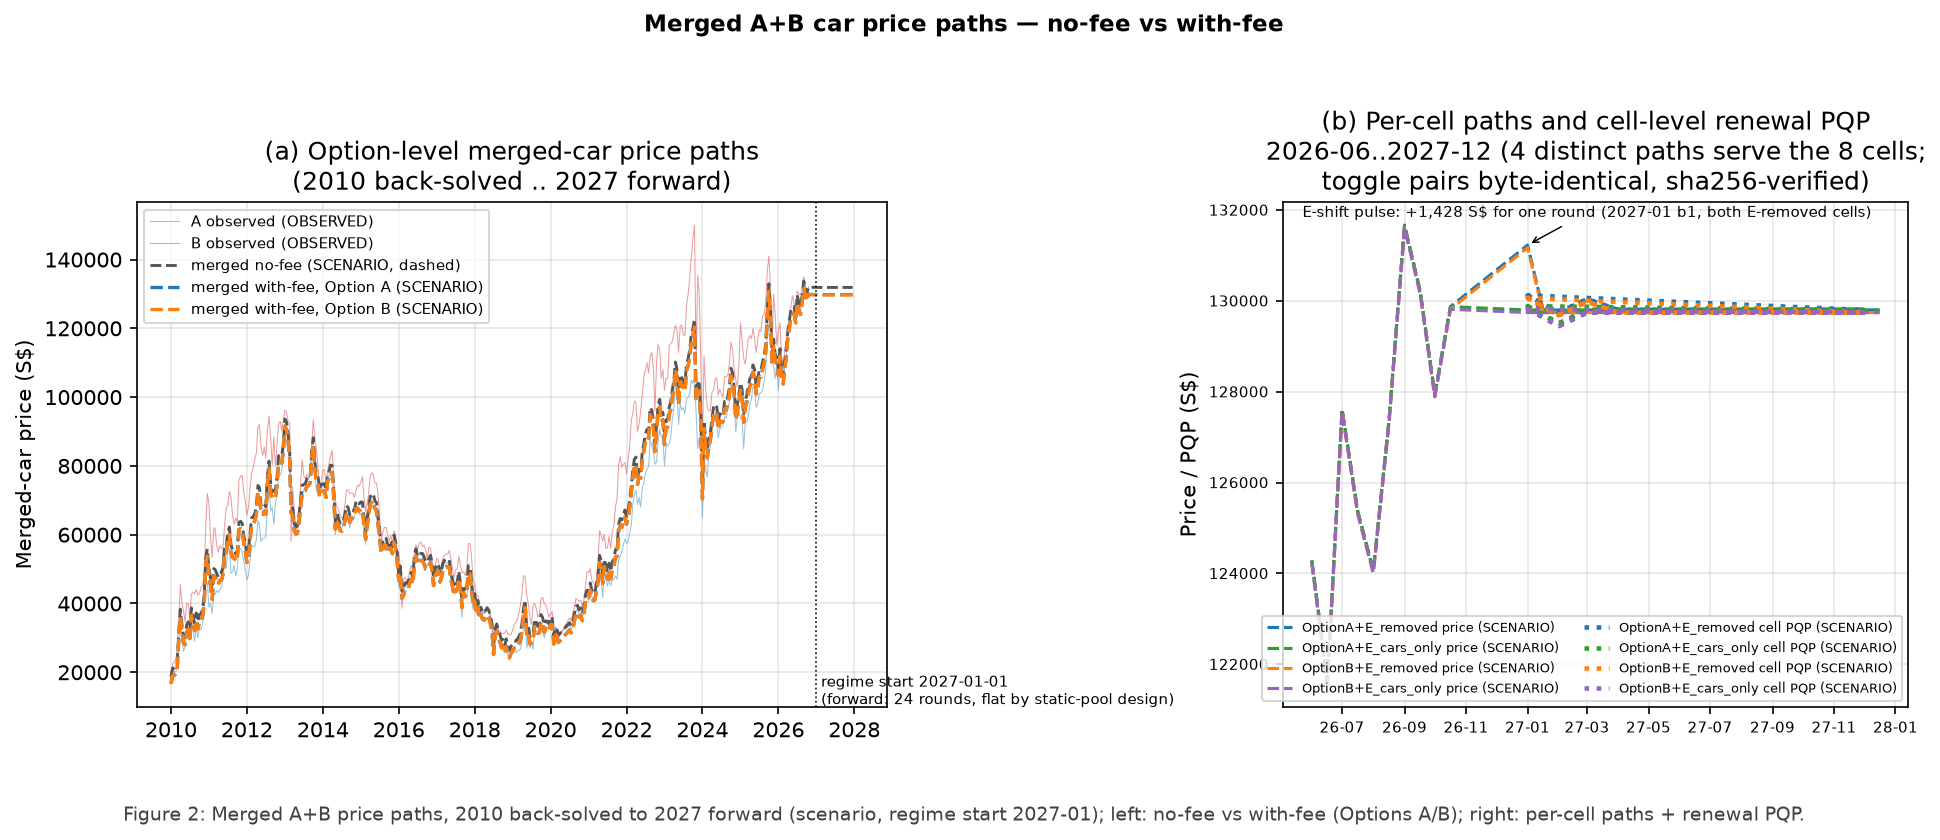
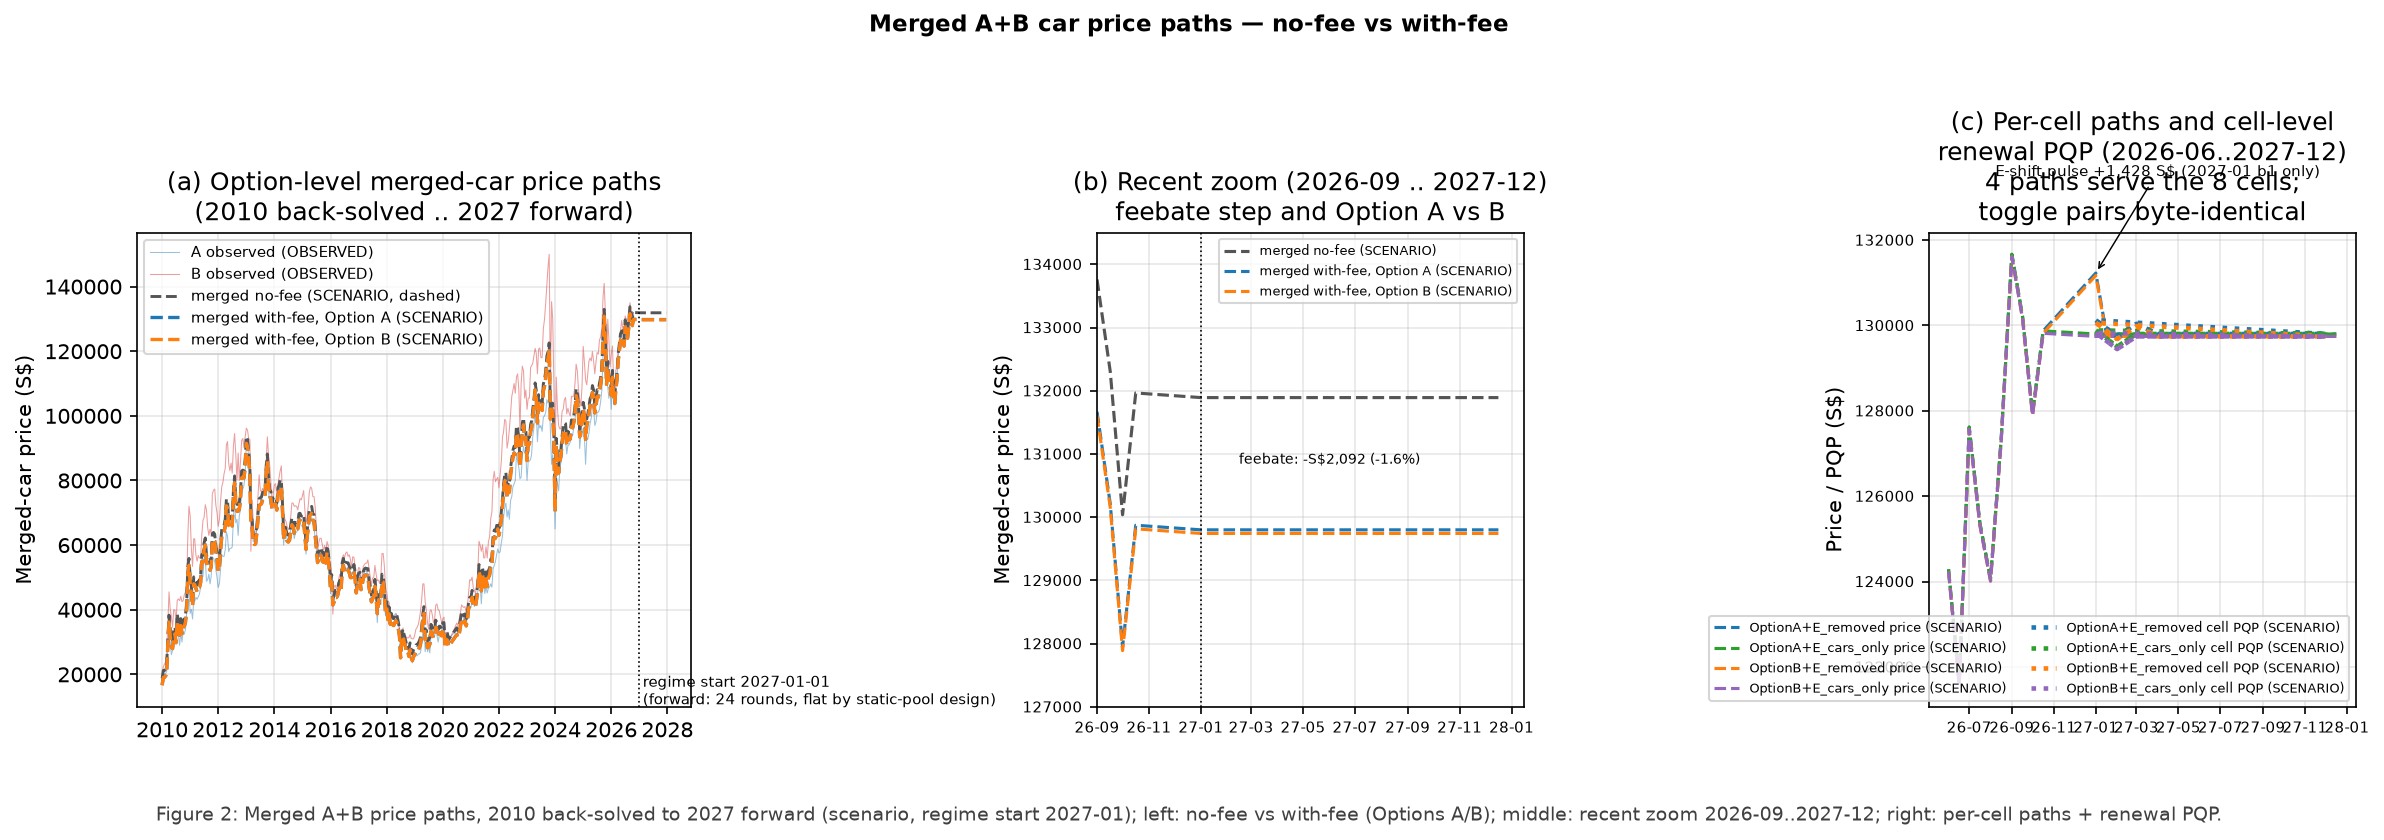
Figure 2: make the with-fee Option A (blue) line visible — it was drawn but hidden, sub-pixel under the Option B orange line (paths within S$60, orange drawn last). Added a middle zoom panel (2026-09..2027-12) separating the three merged paths and showing the -1.6% feebate step; caption explains the

diff --git a/src/make_charts.py b/src/make_charts.py
@@ -121,6 +121,15 @@ def mkfig(name, caption, fig, title=None):
     for ext, txt in title_exts:
         if ext.x0 < -2 or ext.x1 > W + 2:
             problems.append(f"panel title exceeds canvas width: {txt!r}")
+    # any other text/annotation extending past the canvas: bbox_inches='tight'
+    # would silently stretch the saved image to fit it
+    for ax in fig.axes:
+        for child in ax.get_children():
+            if not isinstance(child, plt.Text) or not child.get_text():
+                continue
+            e = child.get_window_extent(renderer)
+            if e.width and (e.x0 < -2 or e.x1 > W + 2 or e.y0 < -2 or e.y1 > H + 2):
+                problems.append(f"text exceeds canvas: {child.get_text()[:30]!r}")
     if problems:
         print(f"WARNING {name}: layout problems: {problems}")
     fig.savefig(path, dpi=150, bbox_inches="tight")
@@ -187,7 +196,7 @@ def fig2():
     ixp, rowsp = read("data/processed/coe_panel_perbidding.csv")
     A = [(d(r[ixp["month"]], r[ixp["bid_no"]]), f(r[ixp["premium"]])) for r in rowsp if r[ixp["category"]] == "A"]
     B = [(d(r[ixp["month"]], r[ixp["bid_no"]]), f(r[ixp["premium"]])) for r in rowsp if r[ixp["category"]] == "B"]
-    fig, (ax1, ax2) = plt.subplots(1, 2, figsize=(13, 5.5), gridspec_kw={"width_ratios": [1.2, 1]})
+    fig, (ax1, axb, ax2) = plt.subplots(1, 3, figsize=(16, 5.5), gridspec_kw={"width_ratios": [1.3, 1, 1]})
     ax1.plot([t for t, _ in A], [v for _, v in A], "-", color="#1f77b4", lw=0.5, alpha=0.45, label="A observed (OBSERVED)")
     ax1.plot([t for t, _ in B], [v for _, v in B], "-", color="#d62728", lw=0.5, alpha=0.45, label="B observed (OBSERVED)")
     ax1.plot([t for t, _ in nofee], [v for _, v in nofee], "--", color="#555555", lw=1.4, label="merged no-fee (SCENARIO, dashed)")
@@ -200,6 +209,30 @@ def fig2():
     ax1.xaxis.set_major_formatter(mdates.DateFormatter("%Y"))
     ax1.grid(alpha=0.3)
     ax1.legend(fontsize=7, loc="upper left")
+
+    # middle: recent zoom — at full-panel scale the with-fee Option A (blue)
+    # and Option B (orange) paths are within S$60 of each other (sub-pixel),
+    # so the blue line is hidden under the orange one; the zoom separates them
+    # and shows the ~S$2,100 (-1.6%) feebate step.
+    zlo, zhi = dt.datetime(2026, 9, 1), dt.datetime(2028, 1, 15)
+    def zoom(pts):
+        return [(t, v) for t, v in pts if zlo <= t <= zhi]
+    for pts, col, lab in [(nofee, "#555555", "merged no-fee (SCENARIO)"),
+                          (wA, "#1f77b4", "merged with-fee, Option A (SCENARIO)"),
+                          (wB, "#ff7f0e", "merged with-fee, Option B (SCENARIO)")]:
+        z = zoom(pts)
+        axb.plot([t for t, _ in z], [v for _, v in z], "--", color=col, lw=1.5, label=lab)
+    axb.axvline(dt.datetime(2027, 1, 1), color="k", lw=0.8, ls=":")
+    axb.set_xlim(zlo, zhi)
+    axb.set_ylim(127000, 134500)
+    axb.set_title("(b) Recent zoom (2026-09 .. 2027-12)\nfeebate step and Option A vs B")
+    axb.set_ylabel("Merged-car price (S$)")
+    axb.xaxis.set_major_formatter(mdates.DateFormatter("%y-%m"))
+    axb.tick_params(labelsize=7)
+    axb.grid(alpha=0.3)
+    axb.legend(fontsize=6, loc="upper right")
+    axb.text(dt.datetime(2027, 6, 1), 130846, "feebate: -S$2,092 (-1.6%)",
+             fontsize=6.5, ha="center")
 
     # right: 4 distinct per-cell paths + cell PQP lines
     cells = ["OptionA+E_removed", "OptionA+E_cars_only", "OptionB+E_removed", "OptionB+E_cars_only"]
@@ -216,10 +249,9 @@ def fig2():
         if "E_removed" in c:
             pulse_pts.extend(v for t, v in pts if t == dt.datetime(2027, 1, 1))
     if pulse_pts:
-        ax2.annotate("E-shift pulse: +1,428 S$ for one round "
-                     "(2027-01 b1, both E-removed cells)",
+        ax2.annotate("E-shift pulse +1,428 S$ (2027-01 b1 only)",
                      xy=(dt.datetime(2027, 1, 1), max(pulse_pts)),
-                     xytext=(dt.datetime(2027, 3, 1), 131850), fontsize=7, ha="center",
+                     xytext=(dt.datetime(2027, 4, 1), 133500), fontsize=7, ha="center",
                      arrowprops=dict(arrowstyle="->", lw=0.7))
     ixq, rowsq = read("data/processed/pqp_by_cell.csv")
     pqpc = {}
@@ -229,16 +261,17 @@ def fig2():
         pqpc[c] = pts
         ax2.plot([t for t, _ in pts], [v for _, v in pts], ":", color=cols[c], lw=2.2,
                  label=f"{c} cell PQP (SCENARIO)")
-    ax2.set_title("(b) Per-cell paths and cell-level renewal PQP\n"
-                  "2026-06..2027-12 (4 distinct paths serve the 8 cells;\n"
-                  "toggle pairs byte-identical, sha256-verified)")
+    ax2.set_title("(c) Per-cell paths and cell-level\n"
+                  "renewal PQP (2026-06..2027-12)\n"
+                  "4 paths serve the 8 cells;\n"
+                  "toggle pairs byte-identical")
     ax2.set_ylabel("Price / PQP (S$)")
     ax2.xaxis.set_major_formatter(mdates.DateFormatter("%y-%m"))
     ax2.tick_params(labelsize=7)
     ax2.grid(alpha=0.3)
     ax2.legend(fontsize=6, ncol=2, loc="lower right")
     mkfig("merged_price_paths.png",
-          "Figure 2: Merged A+B price paths, 2010 back-solved to 2027 forward (scenario, regime start 2027-01); left: no-fee vs with-fee (Options A/B); right: per-cell paths + renewal PQP.",
+          "Figure 2: Merged A+B price paths, 2010 back-solved to 2027 forward (scenario, regime start 2027-01); left: no-fee vs with-fee (Options A/B); middle: recent zoom 2026-09..2027-12; right: per-cell paths + renewal PQP.",
           fig, title="Merged A+B car price paths — no-fee vs with-fee")
 
 

diff --git a/README.md b/README.md
@@ -264,15 +264,20 @@ all — it only changes what renewal owners pay (section 4.6); the dotted
 lines are each variant's renewal price (PQP).
 
 **Figure 2.** Merged A+B price paths, 2010 back-solved to 2027 forward
-(scenario, regime start 2027-01); left: no-fee vs with-fee under both
-options; right: the four per-cell paths and their renewal PQP lines.
+(scenario, regime start 2027-01); left: full history, no-fee vs
+with-fee under both options; middle: recent zoom (2026-09 to 2027-12)
+showing the feebate step and the Option A/B difference; right: the
+four per-cell paths and their renewal PQP lines.
 
-![Merged A+B car price paths, 2010 back-solved to 2027 forward; left: no-fee vs with-fee (Options A/B); right: per-cell paths + renewal PQP](charts/merged_price_paths.png)
+![Merged A+B car price paths, 2010 back-solved to 2027 forward; left: no-fee vs with-fee (Options A/B); middle: recent zoom 2026-09..2027-12; right: per-cell paths + renewal PQP](charts/merged_price_paths.png)
 
 *Faint solid lines are the observed A and B prices. Dashed grey: merged
 price with no feebate. Dashed blue/orange: merged price with the
-feebate under Option A / Option B. Right panel: the four distinct
-per-cell price paths (renewal-feebate toggle pairs are
+feebate under Option A / Option B — the two with-fee paths are within
+S$60 of each other in every round, so at the left panel's scale the
+Option B line (drawn last) lies on top of the Option A line; the middle
+panel separates them. Right panel: the four distinct per-cell price
+paths (renewal-feebate toggle pairs are
 byte-identical, sha256-verified) with their cell-level renewal PQP
 lines, 2027-01 to 2027-12. The small pulse at the 2027-01 round in the
 E-removed cells is the one-round Category E shift effect (+S$1,428.14).*
